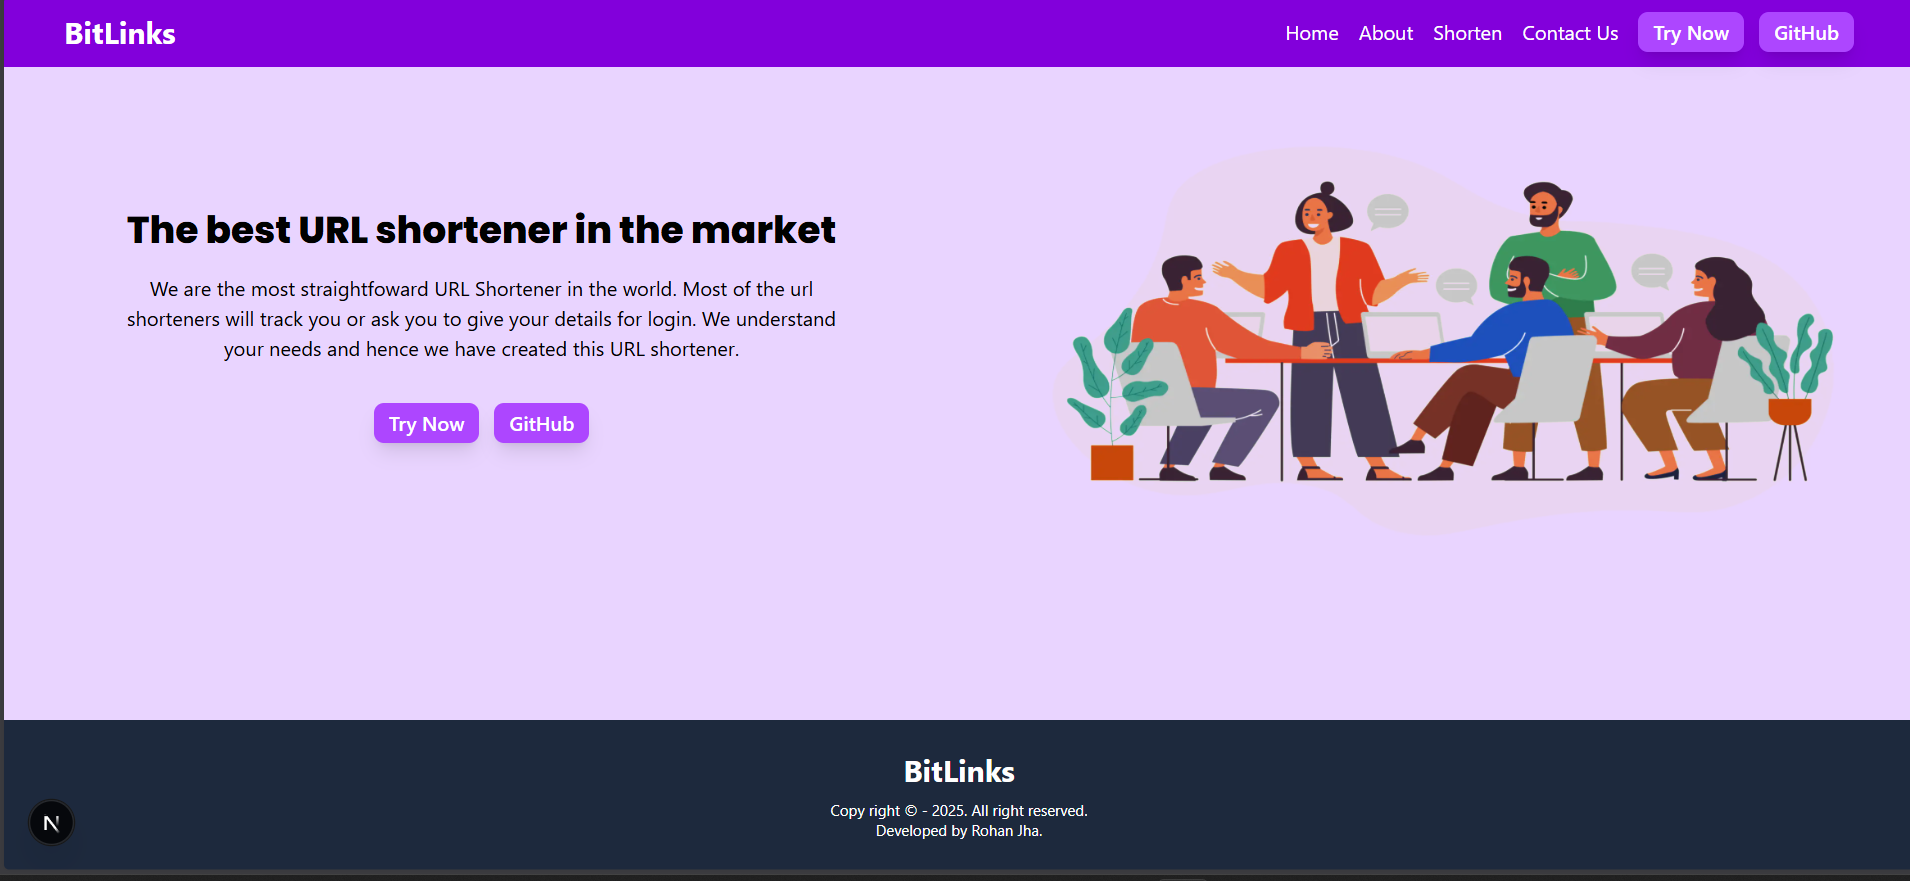
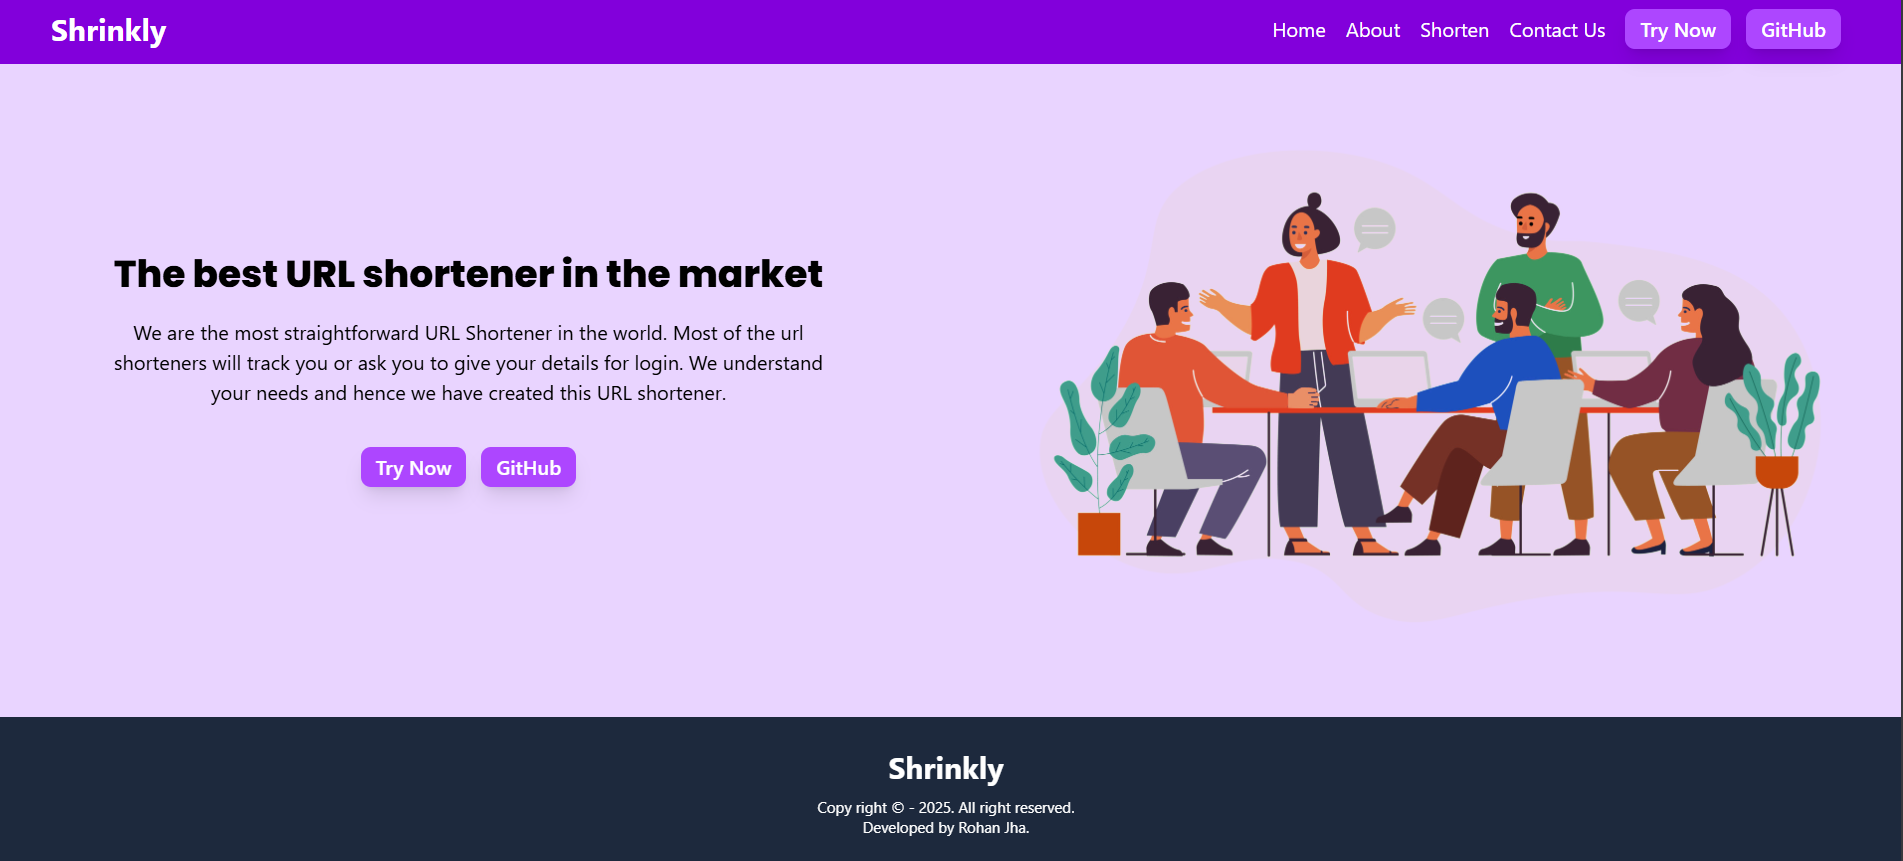
.

diff --git a/README.md b/README.md
@@ -5,7 +5,7 @@ Shrinkly is a modern, fast, and privacy-focused URL shortener built using **Reac
 ## 📸 Screenshots
 
 ### 🖥 App Interface
-![App Interface](./public/site-image.png)
+![App Interface](./frontend/public/site-image.png)
 
 ## ✨ Features
 
